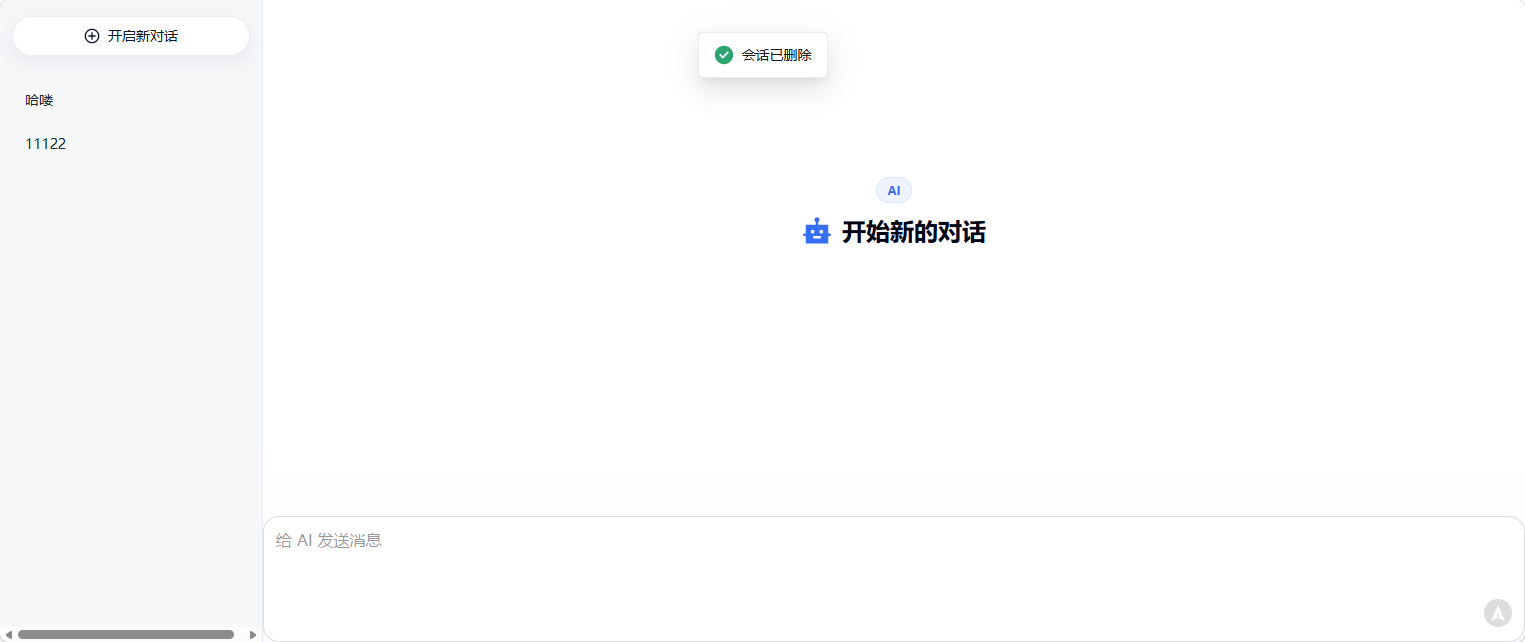
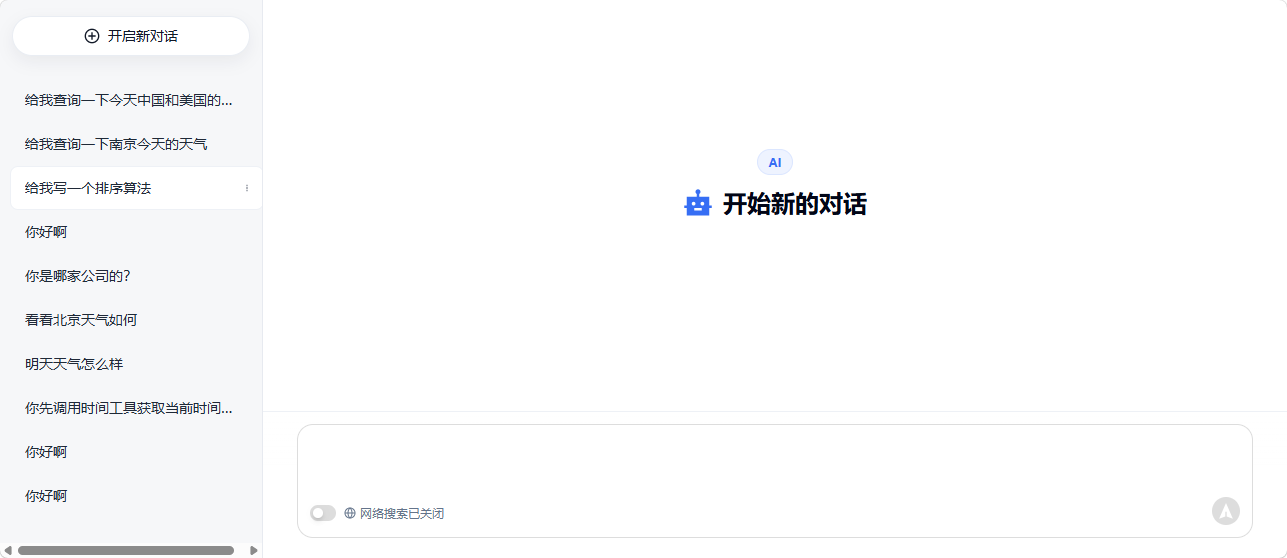
feat(chat): 添加消息重播功能支持断点续传
- 在 api/chat.ts 中新增 chatUrl 和 retryChatUrl 接口地址常量
- 在 ChatRoom.vue 中实现重播逻辑，通过 isSessionIdHasRunningChat 判断会话状态
- 重构聊天请求配置，区分普通聊天和重播消息的不同处理方式
- 添加 isRetry 标志控制重播时不展示工具调用详情
- 更新 README.md 添加网络搜索截图和消息重播功能说明
- 优化聊天室状态重置函数注释描述

diff --git a/src/features/chat/components/ChatRoom.vue b/src/features/chat/components/ChatRoom.vue
@@ -53,6 +53,7 @@
           </t-chat-message>
         </div>
 
+        <!-- 如果当前是重播 不展示工具提示 -->
         <div class="chat-progress-queue">
           <!-- 工具提示只展示一小段时间，下面的“准备回答中”会跟随流式状态持续显示。 -->
           <progress-queue ref="progressQueueRef" loading-text="准备回答中">
@@ -108,9 +109,8 @@ import {
   useChat
 } from '@tdesign-vue-next/chat'
 import ProgressQueue from '../../../components/ProgressQueue.vue'
-import { getMessages, stopChatStream } from '../../../api/chat'
+import {getMessages, isSessionIdHasRunningChat, stopChatStream, chatUrl, retryChatUrl} from '../../../api/chat'
 import type { ChatMessage, CustomChatResponse, StreamToolCallMeta, ToolCallMeta } from '../../../api/chat'
-import { API_BASE_URL } from '../../../config'
 import ToolCallDetailDrawer from './ToolCallDetailDrawer.vue'
 
 const HISTORY_RELOAD_DELAYS = [100, 500, 1000, 1500] as const
@@ -169,10 +169,8 @@ const progressQueueRef = ref<ProgressQueueInstance>()
 const toolDrawerVisible = ref(false)
 // 选中的对话记录id
 const toolRecordId = ref('')
-// 用户消息的 endpoint
-const userMessagesEndpoint =`${API_BASE_URL}/ChatMessage/message`
-//重连消息的 endpoint
-const retryMessagesEndpoint = `${API_BASE_URL}/ChatMessage/reconnect`
+//是否重播
+const isRetry = ref(false);
 
 // tdesign-chat 的 useChat 配置放在这里，右侧聊天室完整掌握发送、SSE 和完成刷新流程。
 const chatServiceConfig: ChatServiceConfig = {
@@ -183,7 +181,11 @@ const chatServiceConfig: ChatServiceConfig = {
   onComplete: chatOnComplete,
   onError: chatOnError
 }
-
+/**
+ * chatEngine 聊天引擎
+ * messages 聊天的上下文所有记录
+ *
+ */
 const { chatEngine, messages, status } = useChat({
   defaultMessages: [],
   chatServiceConfig
@@ -202,12 +204,19 @@ watch(
 
     resetRoomState()
 
-    if (!sessionId) {
+    //如果有会话ID，加载列表
+    if (sessionId) {
+      await loadMessages(sessionId)
+      //判断该会话ID是否正在运行中
+      const isRunning = await isSessionIdHasRunningChat(sessionId)
+      if (isRunning){//进行重播
+        chatServiceConfig.endpoint = retryChatUrl + `?sessionId=${encodeURIComponent(sessionId)}`
+        isRetry.value = true
+        chatEngine.value?.sendAIMessage()
+      }
+    }else {
       await setChatMessages([])
-      return
     }
-
-    await loadMessages(sessionId)
   },
   { immediate: true }
 )
@@ -218,15 +227,21 @@ watch(
  * @param params
  */
 function chatOnRequest (params: ChatRequestParams) {
-  return {
+  console.log('chatOnRequest', params)
+  const requestConfig: RequestInit = {
     method: 'POST',
-    headers: { 'Content-Type': 'application/json' },
-    body: JSON.stringify({
+    headers: { 'Content-Type': 'application/json' }
+  }
+  //配置聊天消息参数
+  if (chatServiceConfig.endpoint === chatUrl){
+    requestConfig.body = JSON.stringify({
       message: params.prompt,
       sessionId: currentSessionId.value || undefined,
       enableWebSearch: enableWebSearch.value
     })
   }
+  return requestConfig;
+
 }
 /**
  * 解析后端返回的SSE数据。
@@ -245,10 +260,11 @@ function chatOnMessage(chunk: SSEChunkData): AIMessageContent | null {
   if (data?.recordId) {
     activeRecordId.value = data.recordId
   }
+  if (!isRetry.value){ //不是重播才展示工具
+    showStreamToolCalls(data?.toolCalls)
+  }
 
-  showStreamToolCalls(data?.toolCalls)
-
-  if (data?.toolCalls?.length || !data?.content) {
+  if (!data?.content) {
     return null
   }
 
@@ -300,9 +316,10 @@ async function handleSend(value: string) {
   if (!prompt) {
     return
   }
-  // 切换到用户消息后端请求url
-  chatServiceConfig.endpoint = userMessagesEndpoint
+  // 聊天消息后端请求url
+  chatServiceConfig.endpoint = chatUrl
   // sendUserMessage 会先把用户消息放入 messages，再请求后端 SSE。
+  isRetry.value = false
   const sendTask = chatEngine.value?.sendUserMessage({ prompt })
   await nextTick()
   scrollChatToBottom('smooth')
@@ -332,7 +349,7 @@ function setChatListRef(instance: ChatListInstance | null) {
 }
 
 /**
- * 清理右侧聊天室临时状态。
+ * 清理聊天室状态。
  */
 function resetRoomState() {
   inputValue.value = ''

diff --git a/src/api/chat.ts b/src/api/chat.ts
@@ -1,4 +1,10 @@
 import request from './request'
+import {API_BASE_URL} from "../config";
+
+// 聊天消息的url
+export const chatUrl =`${API_BASE_URL}/ChatMessage/message`
+//重连消息的 url
+export const retryChatUrl = `${API_BASE_URL}/ChatMessage/message/reconnect`
 
 /**
  * 聊天消息响应

diff --git a/README.md b/README.md
@@ -10,12 +10,15 @@
 
 ![聊天界面](src/assets/view2.png)
 
+![网络搜索](src/assets/view3.png)
+
 ## 功能特性
 
 - AI 对话：支持流式输出，实时显示 AI 回复
 - 思考过程：展示 AI 的思考过程
 - 工具调用：查看每轮对话的工具请求与返回
-- 网络搜索：聚合展示 `web_search` 的关键词和结果链接
+- 网络搜索：聚合展示网络搜索的关键词和结果链接
+- 消息重播：支持重连还没生成完毕 AI 回复的消息
 - 会话管理：创建、切换、重命名、删除会话
 - 历史消息：加载和查看历史聊天记录
 - 响应式布局：适配不同屏幕尺寸